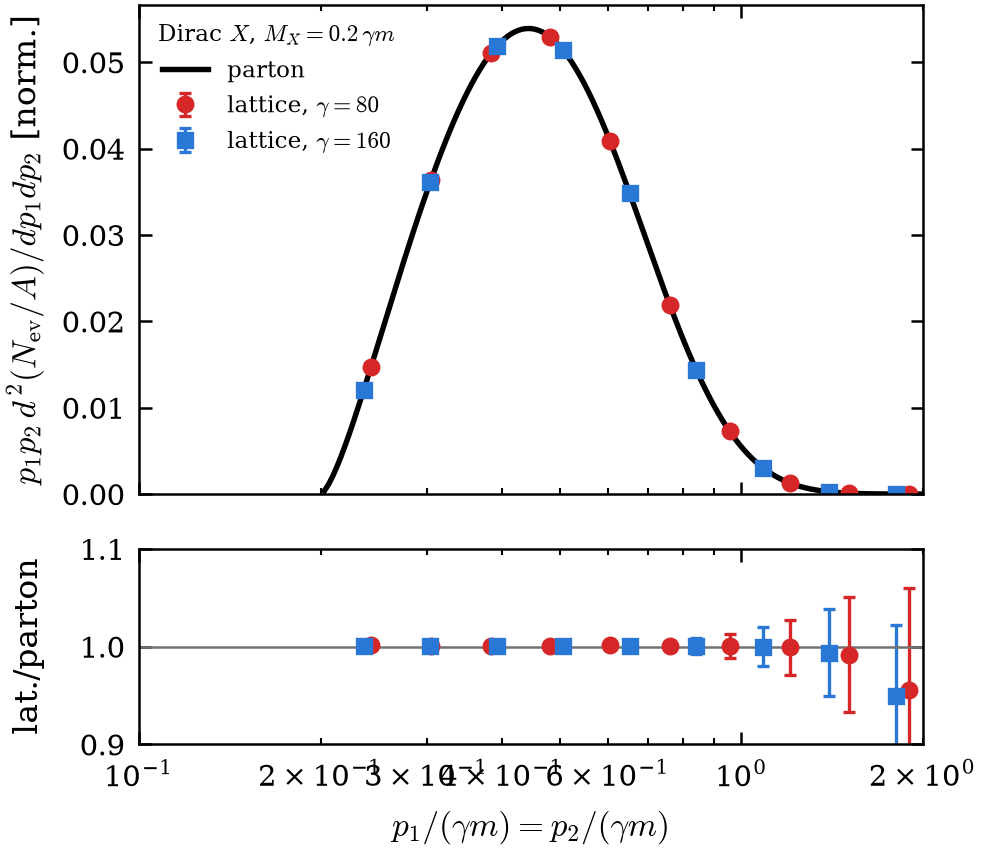
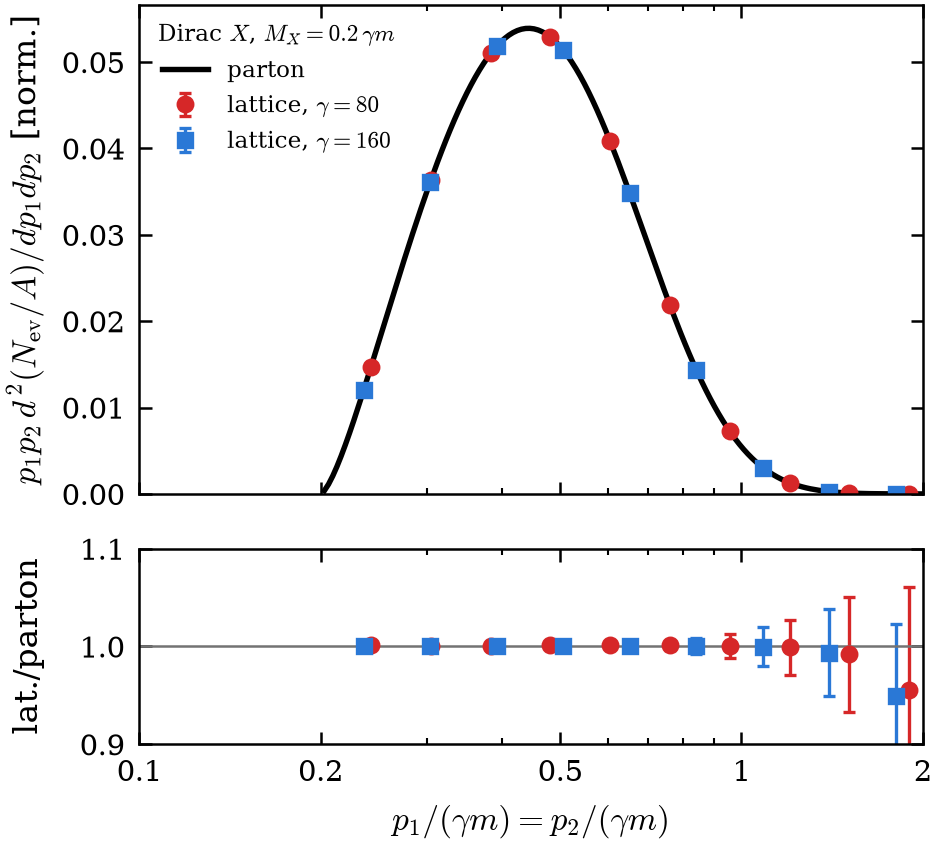
Fig. S3: label the x axis at 0.1, 0.2, 0.5, 1, 2 (the range spans less than a decade, so minor-tick labels overlapped)
With helps from Claude Code

Changed region(s): [[0.0, 0.0, 0.9904, 0.9231], [0.4023, 0.9538, 0.7118, 1.0]]

diff --git a/scripts/plots/p02h_lattice_diag_yield_plot.py b/scripts/plots/p02h_lattice_diag_yield_plot.py
@@ -9,11 +9,13 @@ Reads output/02h_lattice_diag_yield.npz. Writes plots/p02h_lattice_diag_yield_pe
 import sys, pathlib
 import numpy as np
 import matplotlib.pyplot as plt
+from matplotlib.ticker import FixedLocator, FixedFormatter, NullFormatter
 ROOT = pathlib.Path(__file__).resolve().parents[2]   # repository root
 from gravdm import paper_plotstyle as ps
 
 CFG = dict(gammas=(80, 160), marker={80: "o", 160: "s"}, col={80: "#d62728", 160: ps.COL["c1"]},
-           ls={1e-3: "-"}, hspace=0.16, xlim={1e-3: (1e-2, 2.0), 0.2: (0.1, 2.0)}, x_max=2.0, rlim=(0.9, 1.1), forms=("perlog",))
+           ls={1e-3: "-"}, hspace=0.16, xlim={1e-3: (1e-2, 2.0), 0.2: (0.1, 2.0)}, x_max=2.0, rlim=(0.9, 1.1), forms=("perlog",),
+           xticks={0.2: (0.1, 0.2, 0.5, 1.0, 2.0)})   # explicit labels where the axis spans less than a decade
 
 ps.apply()
 d = np.load(ROOT / "output/02h_lattice_diag_yield.npz"); xf = d["xfine"]
@@ -36,6 +38,10 @@ for mu in d["mus"]:
     else:
         a.set(ylim=(0, None), ylabel=r"$p_1p_2\,d^2(N_{\rm ev}/A)/dp_1dp_2$ [norm.]")
     a.set(xscale="log", xlim=[v for k, v in CFG["xlim"].items() if np.isclose(k, mu)][0])
+    xt = [v for k, v in CFG["xticks"].items() if np.isclose(k, mu)]
+    if xt:   # less than a decade: matplotlib would label the minor ticks too (2x10^-1, 3x10^-1, ...), which overlap
+        b.xaxis.set_major_locator(FixedLocator(xt[0])); b.xaxis.set_major_formatter(FixedFormatter([f"{v:g}" for v in xt[0]]))
+        b.xaxis.set_minor_formatter(NullFormatter())
     mlab = r"10^{-3}" if np.isclose(mu, 1e-3) else f"{mu:g}"
     a.legend(loc="lower left" if form == "dens" else "upper left", fontsize=5.6, title=rf"Dirac $X$, $M_X={mlab}\,\gamma m$", title_fontsize=5.6)
     b.set(xlabel=r"$p_1/(\gamma m)=p_2/(\gamma m)$", ylabel="lat./parton", ylim=CFG["rlim"])
